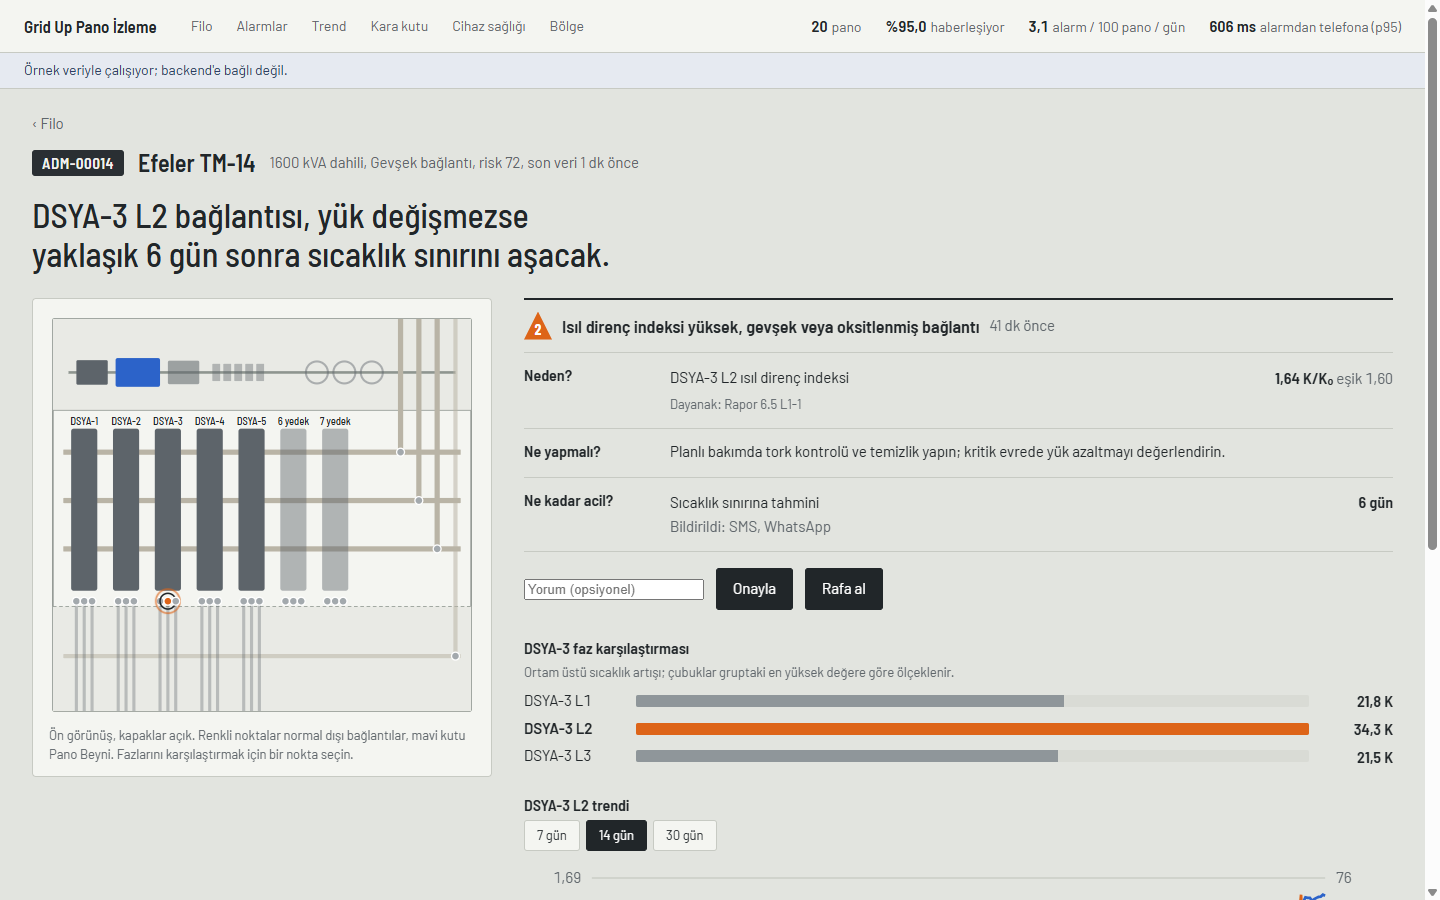
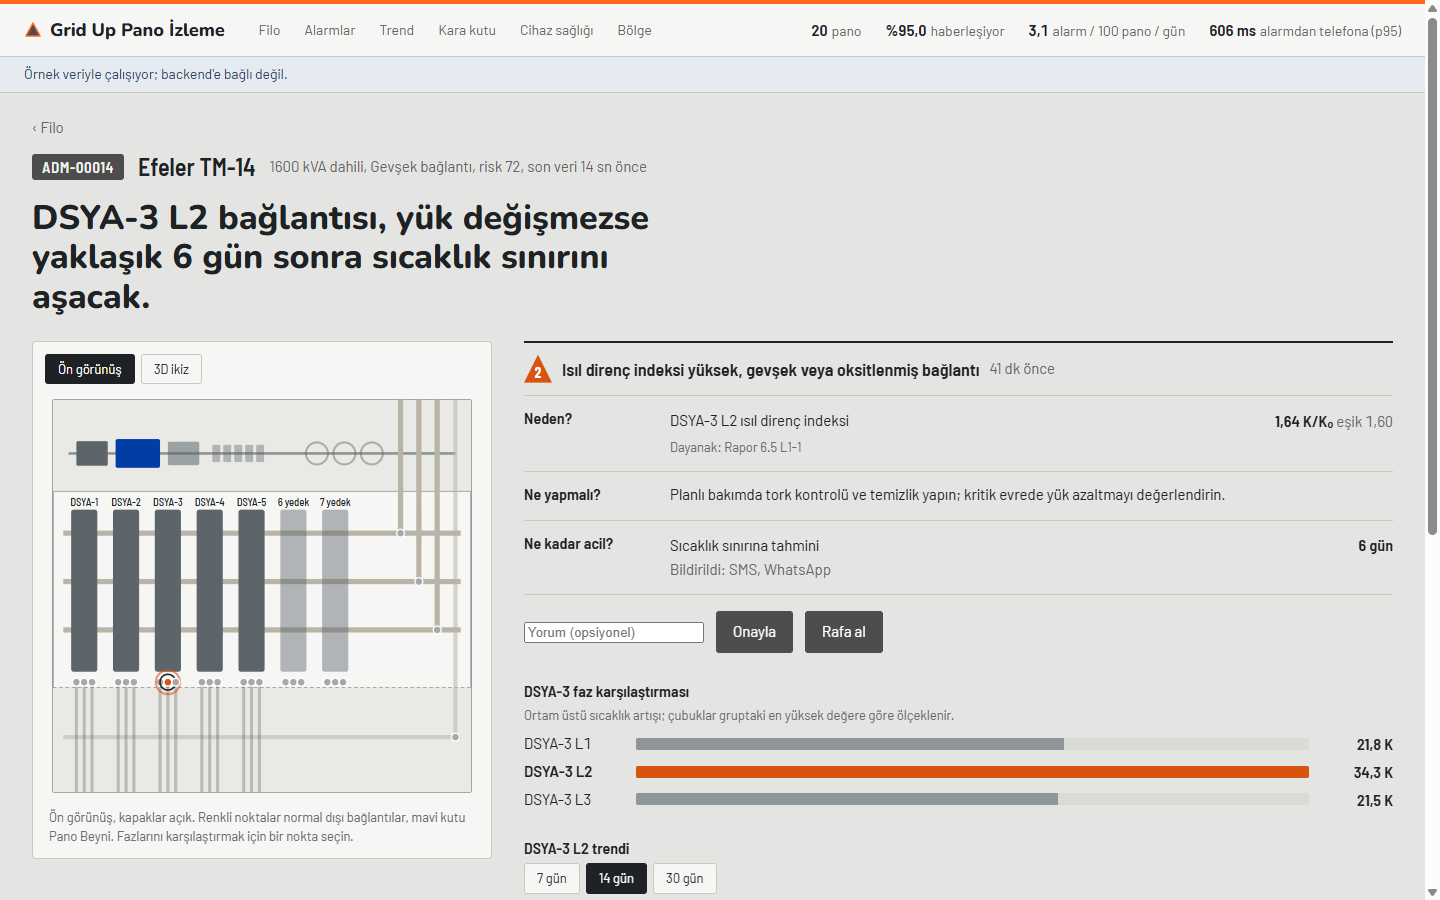
docs+assets: tasarim revizyonu R5 (ekran goruntuleri yenilendi)
Kullanici "Devam et" dedi; TASARIM-REVIZYONU.md plani uctan uca
tamamlandi (R1-R5).

assets/ekran/'daki 8 dosyanin hepsi R1-R4 sonrasi yeni palet ve
duzenle (npm run dev:mock, 1440x900) ayni rota/pano/sekme
kombinasyonlariyla yeniden cekildi:
- 01-filo-listesi.png (/), 02-pano-detay-alarm.png (/pano/ADM-00014),
  02-pano-detay-normal.png (/pano/ADM-00301, .calm bos durum),
  03-alarm-konsolu.png (/alarmlar, iki P1 olay modu karti),
  04-trend-korelasyon.png (/trend/ADM-00014, DSYA-3 L2, tam sayfa),
  05-olay-analizi-kara-kutu.png (/olay/EVT-60, 72 saat),
  06-cihaz-sagligi.png (/cihaz-sagligi), 07-bolge-haritasi.png (/bolge)

Tumu tek tek gorsel kontrolden gecti: turuncu kimlik bandi, grafit
plaka, yeni mavi/turuncu tonlar, olay modu ve risk matrisi dogru
gorunuyor.

diff --git a/frontend/TASARIM-REVIZYONU.md b/frontend/TASARIM-REVIZYONU.md
@@ -1,8 +1,7 @@
 # Tasarım Revizyonu Planı — "RAL 7035 + Aydem kimliği"
 
-> **Sahip:** Kişi C (Berke) · **Tarih:** 14 Eylül 2026 · **Durum:** kullanıcı onayladı, **R1–R4 uygulandı**
-> (§6, §8). R5 (ekran görüntülerini yenileme) zaman kalırsa yapılacak.
-> Bağlantılı: [`docs/16-ux-tasarim.md`](../docs/16-ux-tasarim.md) (mevcut tasarım gerekçesi).
+> **Sahip:** Kişi C (Berke) · **Tarih:** 14 Eylül 2026 · **Durum:** kullanıcı onayladı, **plan uçtan uca
+> uygulandı (R1–R5)**. Bağlantılı: [`docs/16-ux-tasarim.md`](../docs/16-ux-tasarim.md) (tasarım gerekçesi).
 
 ## 0. Tek paragrafta öneri
 
@@ -171,7 +170,7 @@ SVG'leri (tarayıcıda okundu, 14 Eylül 2026), Aydem Enerji logo kılavuzu sayf
 | R2 | Marka katmanı: kimlik bandı, ürün işareti, plakalar, boş durumlar (§3.5) | `App.tsx`, `app.css`, `index.html` (favicon) | ✅ Uygulandı |
 | R3 | Y6 (onaylanınca duran hareket) + Y1 (3D zaman kaydırıcı) | `Ikiz3D.tsx`, `OnGorunus.tsx`, `PanoDetay.tsx` | ✅ Uygulandı |
 | R4 | Y2 (olay modu) + Y3 (risk matrisi) | `PanoDetay.tsx`, `AlarmNedeni.tsx`, `FiloListesi.tsx`, yeni `RiskMatrisi.tsx`, `mock.ts` düzeltmesi | ✅ Uygulandı |
-| R5 | Ekran görüntülerini yeniden al, `docs/16` §1 ve §5'i güncelle | `assets/ekran/`, `docs/16-ux-tasarim.md` | ⏳ Zaman kalırsa |
+| R5 | Ekran görüntülerini yeniden al, `docs/16`'yı güncelle | `assets/ekran/`, `docs/16-ux-tasarim.md` | ✅ Uygulandı |
 
 **Kabul ölçütleri:** tüm testler yeşil; kontrast (metin ≥ 4,5:1, grafik ≥ 3:1) token bazında
 doğrulanmış; veri alanı stillerinde `--brand` kullanımı sıfır (grep); 400 px genişlikte yatay taşma yok.
@@ -239,9 +238,28 @@ gerektirmez; Y3'teki "etki" yalnızca mevcut `pano_type` alanından gelir.
   kırmızı üst kenarı ve kara kutu kısayolu (EVT-51 → gerçek zaman çizelgesi) doğrulandı; 390 px
   mobilde hem risk matrisi hem Filo listesi yatay taşmasız.
 
+## 8. Yapıldı: R5 — ekran görüntüleri yenilendi
+
+`assets/ekran/`'daki 8 dosyanın hepsi, R1–R4 sonrası yeni palet ve düzenle (`npm run dev:mock`,
+1440×900, mock verisi) aynı rota/pano/sekme kombinasyonlarıyla yeniden çekildi:
+
+| Dosya | Rota | Not |
+|---|---|---|
+| `01-filo-listesi.png` | `/` | Zaman ekseni (varsayılan) sekmesi |
+| `02-pano-detay-alarm.png` | `/pano/ADM-00014` | Ön görünüş sekmesi |
+| `02-pano-detay-normal.png` | `/pano/ADM-00301` | Boş/sakin durum (`.calm`, ince turuncu çizgi) |
+| `03-alarm-konsolu.png` | `/alarmlar` | Açık filtre; iki P1 kartı da olay modu stilinde |
+| `04-trend-korelasyon.png` | `/trend/ADM-00014` | Nokta DSYA-3 L2, tam sayfa |
+| `05-olay-analizi-kara-kutu.png` | `/olay/EVT-60` | 72 saat penceresi |
+| `06-cihaz-sagligi.png` | `/cihaz-sagligi` | — |
+| `07-bolge-haritasi.png` | `/bolge` | — |
+
+`docs/16-ux-tasarim.md` §2.1'e risk matrisi, yeni §2.2'ye olay modu notu eklendi; §5'teki tablo aynı
+dosya adlarını kullandığı için görsel değişmiş haliyle otomatik güncel.
+
 ---
 
-## 8. Yapıldı: 3D dijital ikiz entegrasyonu (14 Eylül, önceki oturum)
+## 9. Yapıldı: 3D dijital ikiz entegrasyonu (14 Eylül, önceki oturum)
 
 - `frontend/src/components/Ikiz3D.tsx`: spike'taki sahnenin üretim hali. three.js npm'den
   (`three@0.169.0`) ve **ayrı parça** olarak yüklenir (509 kB, gzip 130 kB); ilk açılış paketi

diff --git a/STATUS.md b/STATUS.md
@@ -9,8 +9,24 @@
 > PLAN.md'de yalnızca kutucuk işaretleme ve "Günlük Kayıt" satırı ekleme yapılır (kural: ortak dosya).
 > Her önemli adımdan sonra bu dosya güncellenir. Dal: `berke/frontend` (origin'e push edildi).
 
-**Son güncelleme:** 14 Eylül 2026 öğleden sonra (tasarım revizyonu R1–R4 uygulandı, §10).
-**Son commit:** Tasarım revizyonu R4 (olay modu, risk matrisi, mock kara kutu düzeltmesi) — bkz. §10.
+**Son güncelleme:** 14 Eylül 2026 öğleden sonra (tasarım revizyonu R1–R5 tamamlandı, §11).
+**Son commit:** Tasarım revizyonu R5 (ekran görüntüleri yenilendi) — bkz. §11. Plan uçtan uca bitti.
+
+## 11. Oturum 5 — Tasarım revizyonu uygulaması: R5 (14 Eylül, "Devam et")
+
+Kullanıcı yine "Devam et" dedi; planın son adımı R5 (ekran görüntülerini yeni paletle yenileme)
+uygulandı. **`frontend/TASARIM-REVIZYONU.md` planının tamamı (R1–R5) artık uygulanmış durumda.**
+
+`assets/ekran/`'daki 8 dosyanın hepsi aynı rota/pano/sekme kombinasyonlarıyla (1440×900, mock
+verisi) yeniden çekildi ve eskilerinin üzerine yazıldı; tek tek görsel olarak kontrol edildi
+(turuncu kimlik bandı, grafit plaka, yeni mavi/turuncu tonlar, olay modu, risk matrisi hepsi
+doğru görünüyor). `docs/16-ux-tasarim.md`'ye §2.1 risk matrisi notu ve yeni §2.2 (olay modu) eklendi.
+Ayrıntı: `frontend/TASARIM-REVIZYONU.md` §8.
+
+**Bu, kullanıcının 14 Eylül öğleden sonra başlattığı tasarım revizyonu talebinin tamamının
+kapanışıdır** (ADM/GDZ marka analizi → global araştırma → revize plan → R1 token/tipografi → R2
+marka katmanı → R3 Y6+Y1 → R4 Y2+Y3 → R5 ekran görüntüleri). Sıradaki iş, önceki oturumlarda
+not düşülen ekip riskine (§0.1, A kulvarı) veya PLAN.md'de C'ye kalan başka bir maddeye bağlı.
 
 ## 10. Oturum 4 — Tasarım revizyonu uygulaması: R4 (14 Eylül, "Devam et")
 
